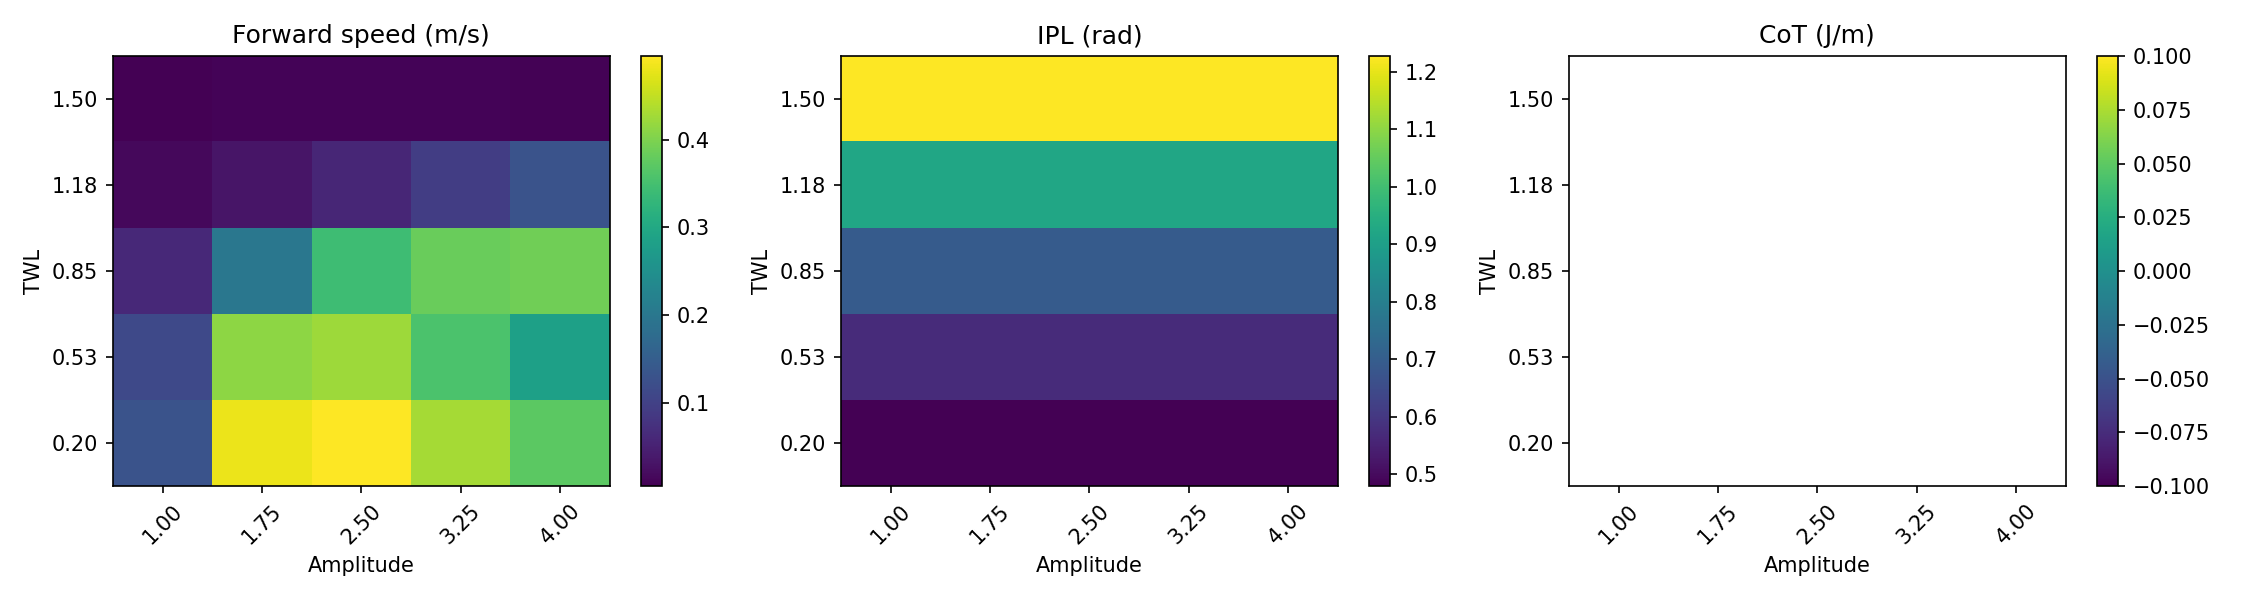
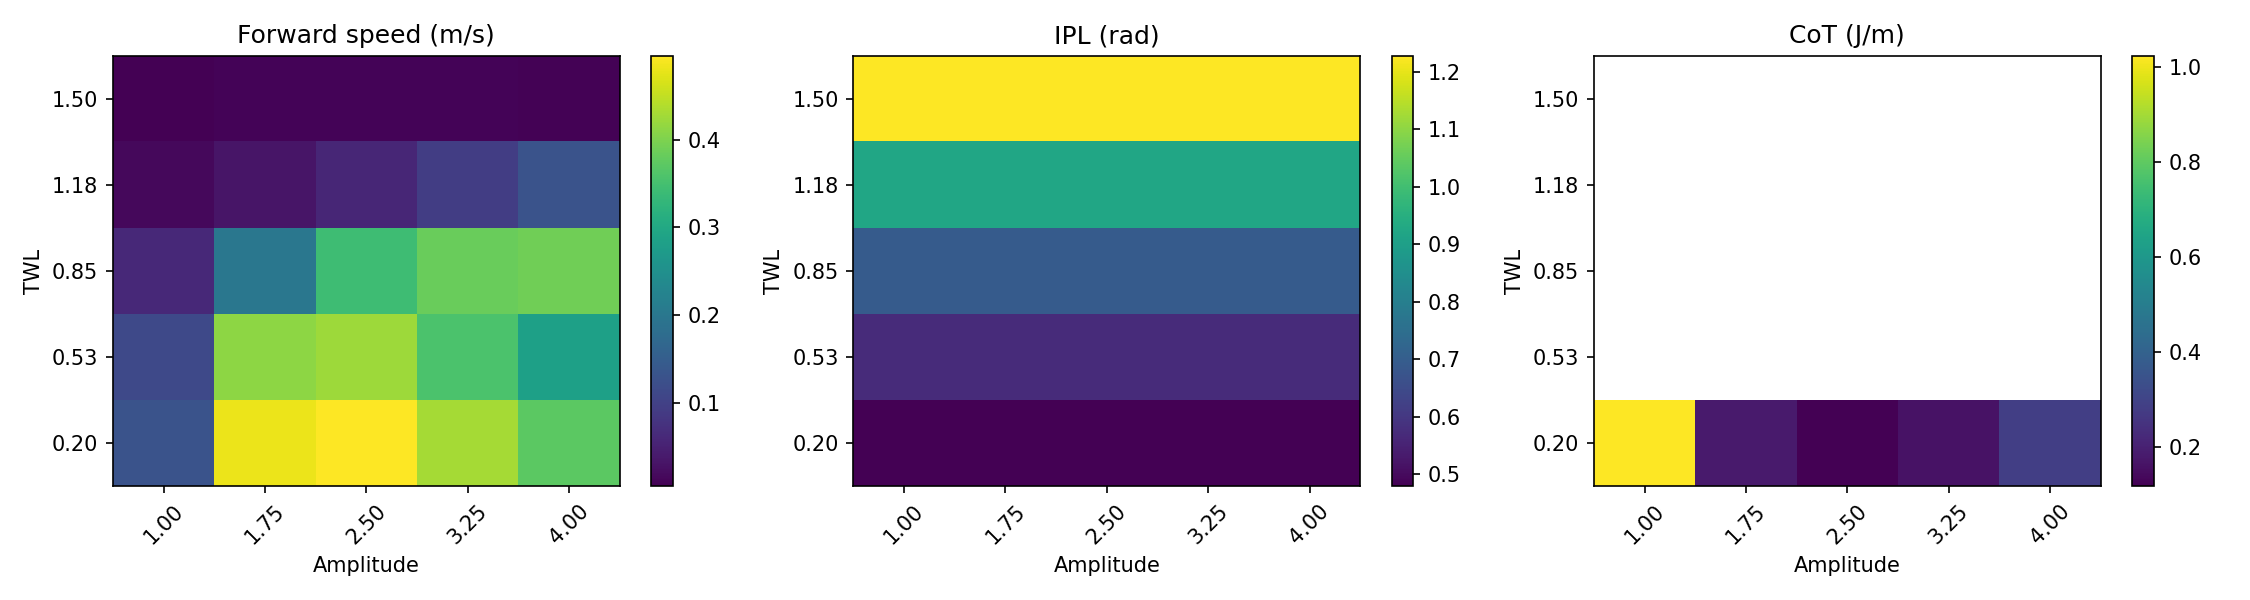
Improving Heatmap + Starting solve problem on CoT

diff --git a/Project1/Python/cmc_controllers/metrics.py b/Project1/Python/cmc_controllers/metrics.py
@@ -324,8 +324,13 @@ def compute_mechanical_energy_and_cot(times: np.ndarray,
     Compute the integration of traveled distance for the CoM of the robot (useful varibles: LINKS_MASSES, TOTAL_MASS)
     """
 
-    pylog.warning("TODO: 1.2 Compute energy and CoT")
-    energy = np.inf
-    cot = np.inf
+    dt = times[1] - times[0]
+    power_positive = np.maximum(joints_torques * joints_velocities, 0)
+    energy = dt * np.sum(power_positive)
+    com_positions = np.average(links_positions, axis=1, weights=LINKS_MASSES)  
+
+    D_fwd = com_positions[-1, 0] - com_positions[0, 0]
+
+    cot = energy / D_fwd if D_fwd > 0 else np.inf
     return energy, cot
 

diff --git a/Project1/Python/exercise1_2.py b/Project1/Python/exercise1_2.py
@@ -115,7 +115,7 @@ def exercise1_2(**kwargs):
         'amp': example_amp_range,
     }
     n_workers = 8
-    """
+    
     run_multiple(
         max_workers=n_workers,
         controller=base_controller,
@@ -123,7 +123,7 @@ def exercise1_2(**kwargs):
         parameter_grid=parameter_grid_example,
         common_kwargs={'fast': True, 'headless': True},
     )
-    """
+    
     pylog.warning("TODO: 1.3 Analyze the results of multiple simulations")
 
 
